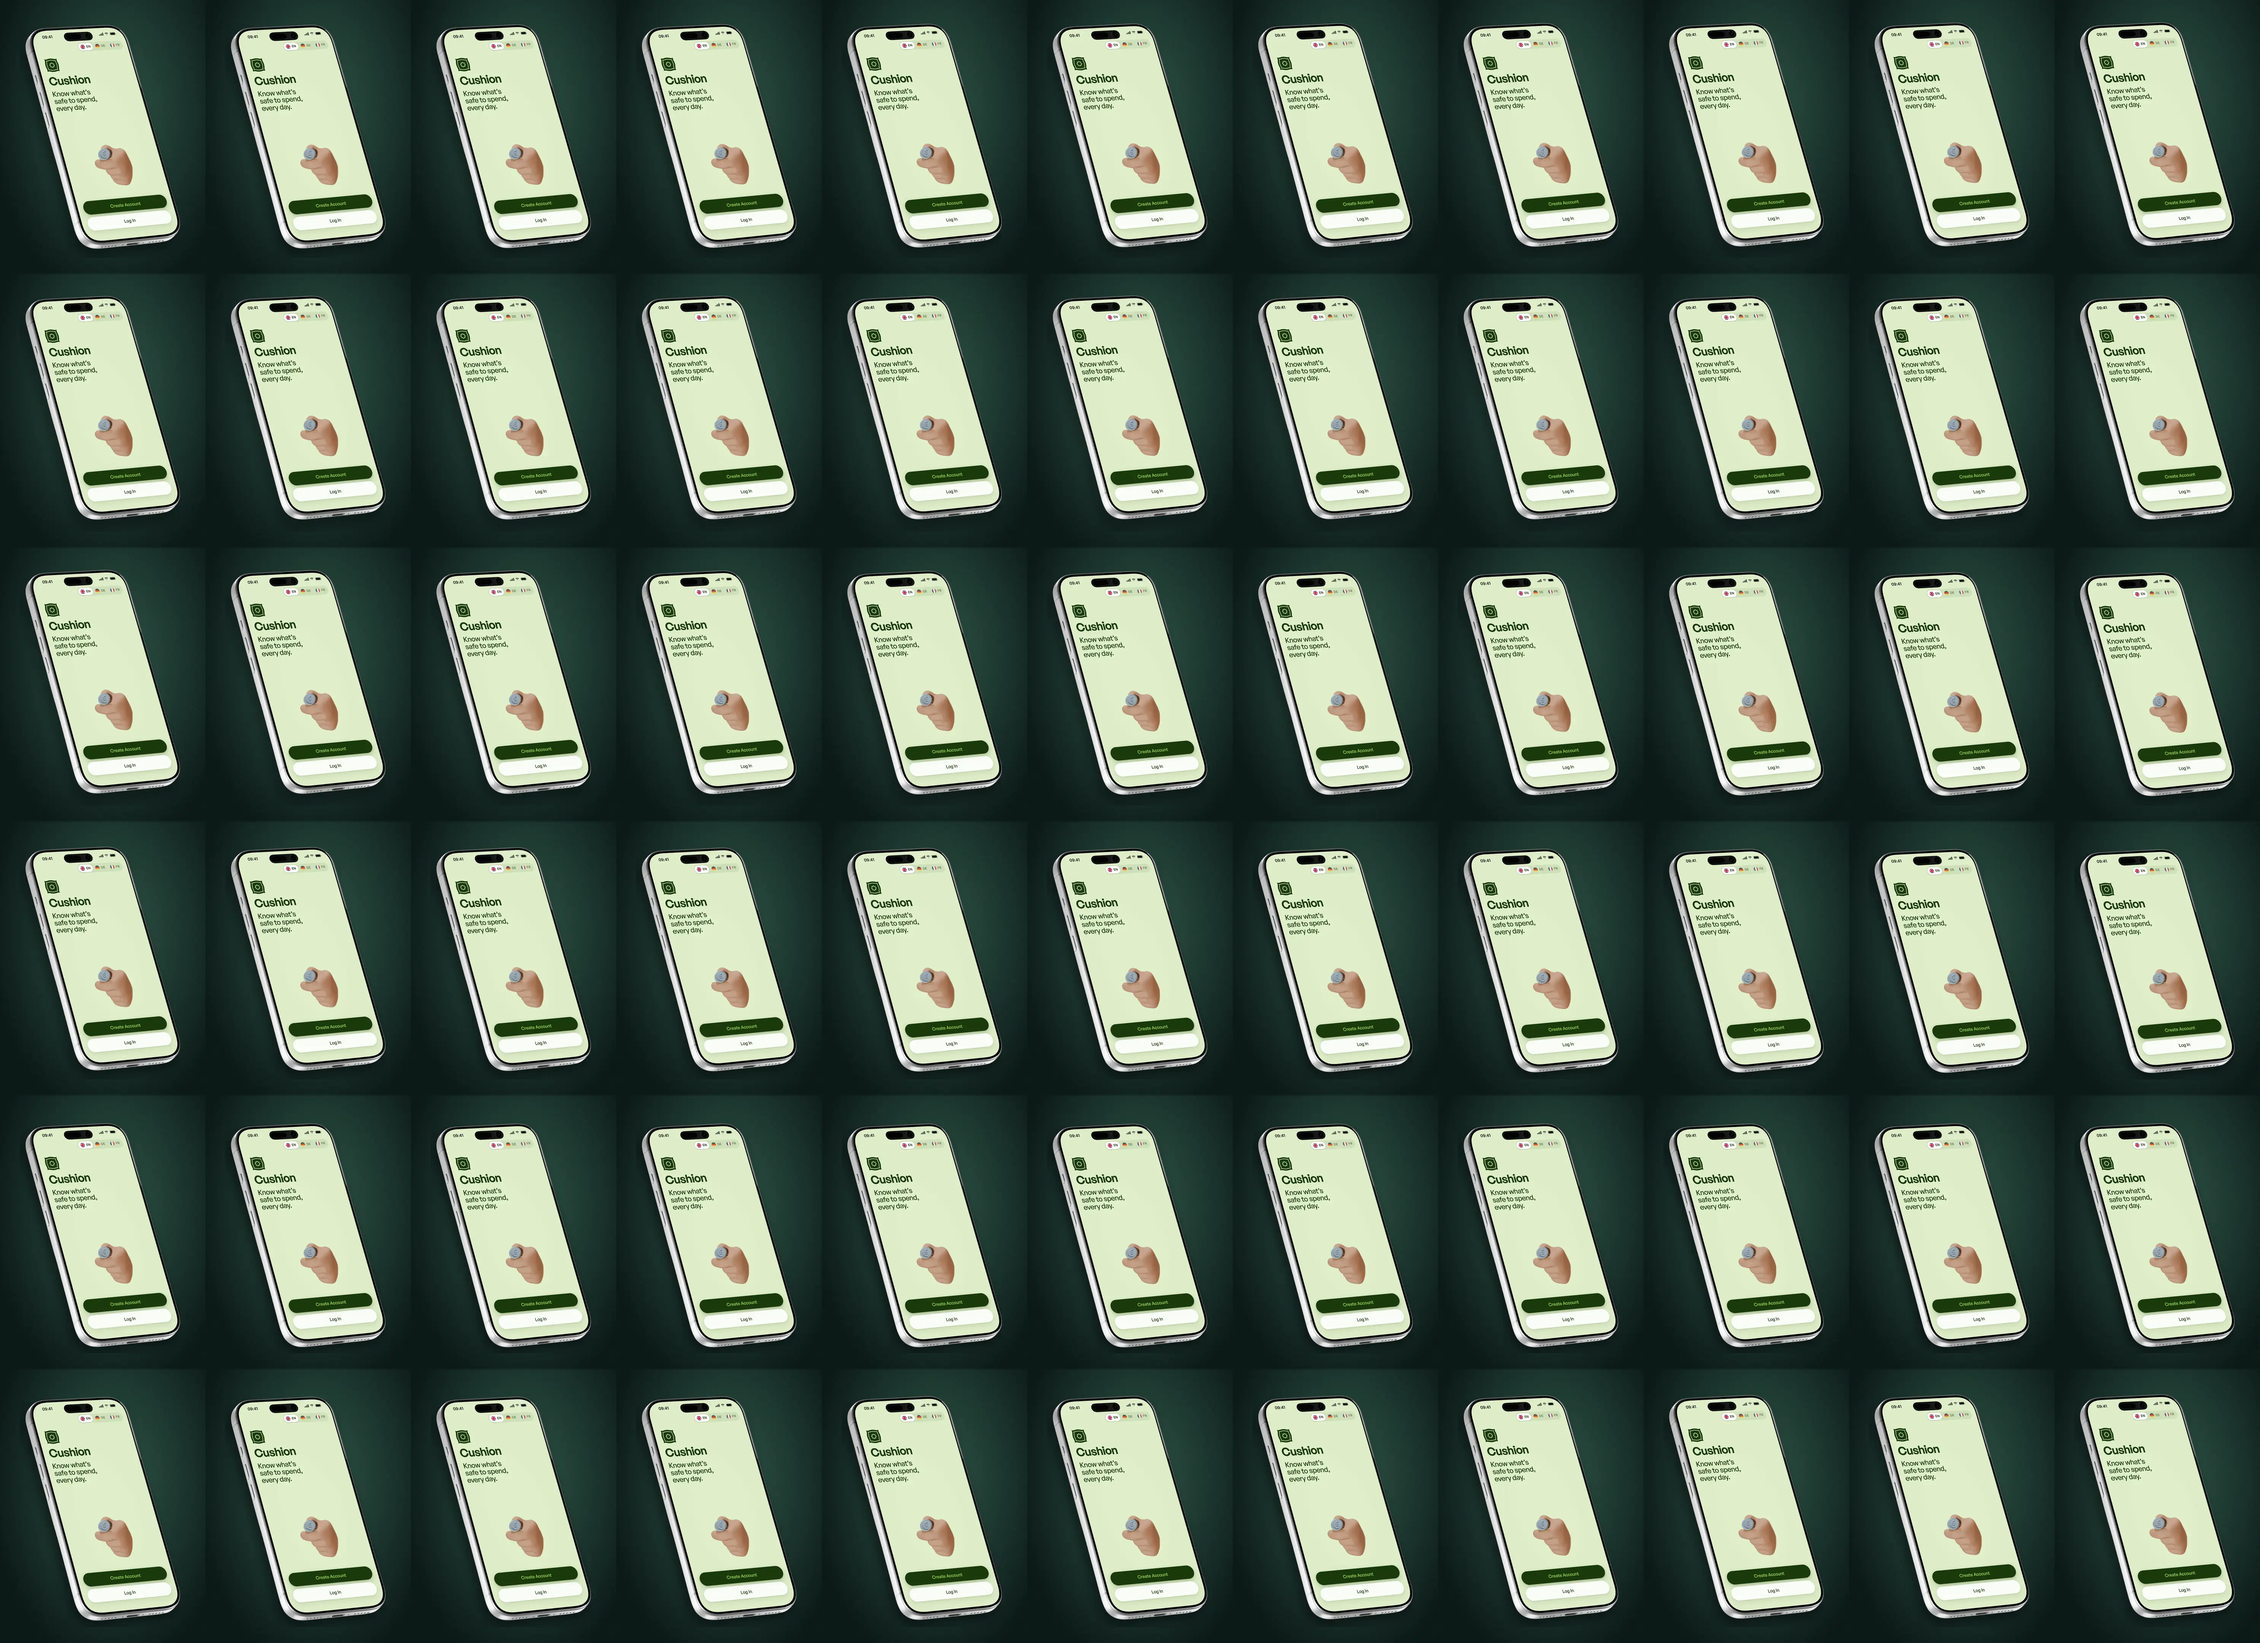
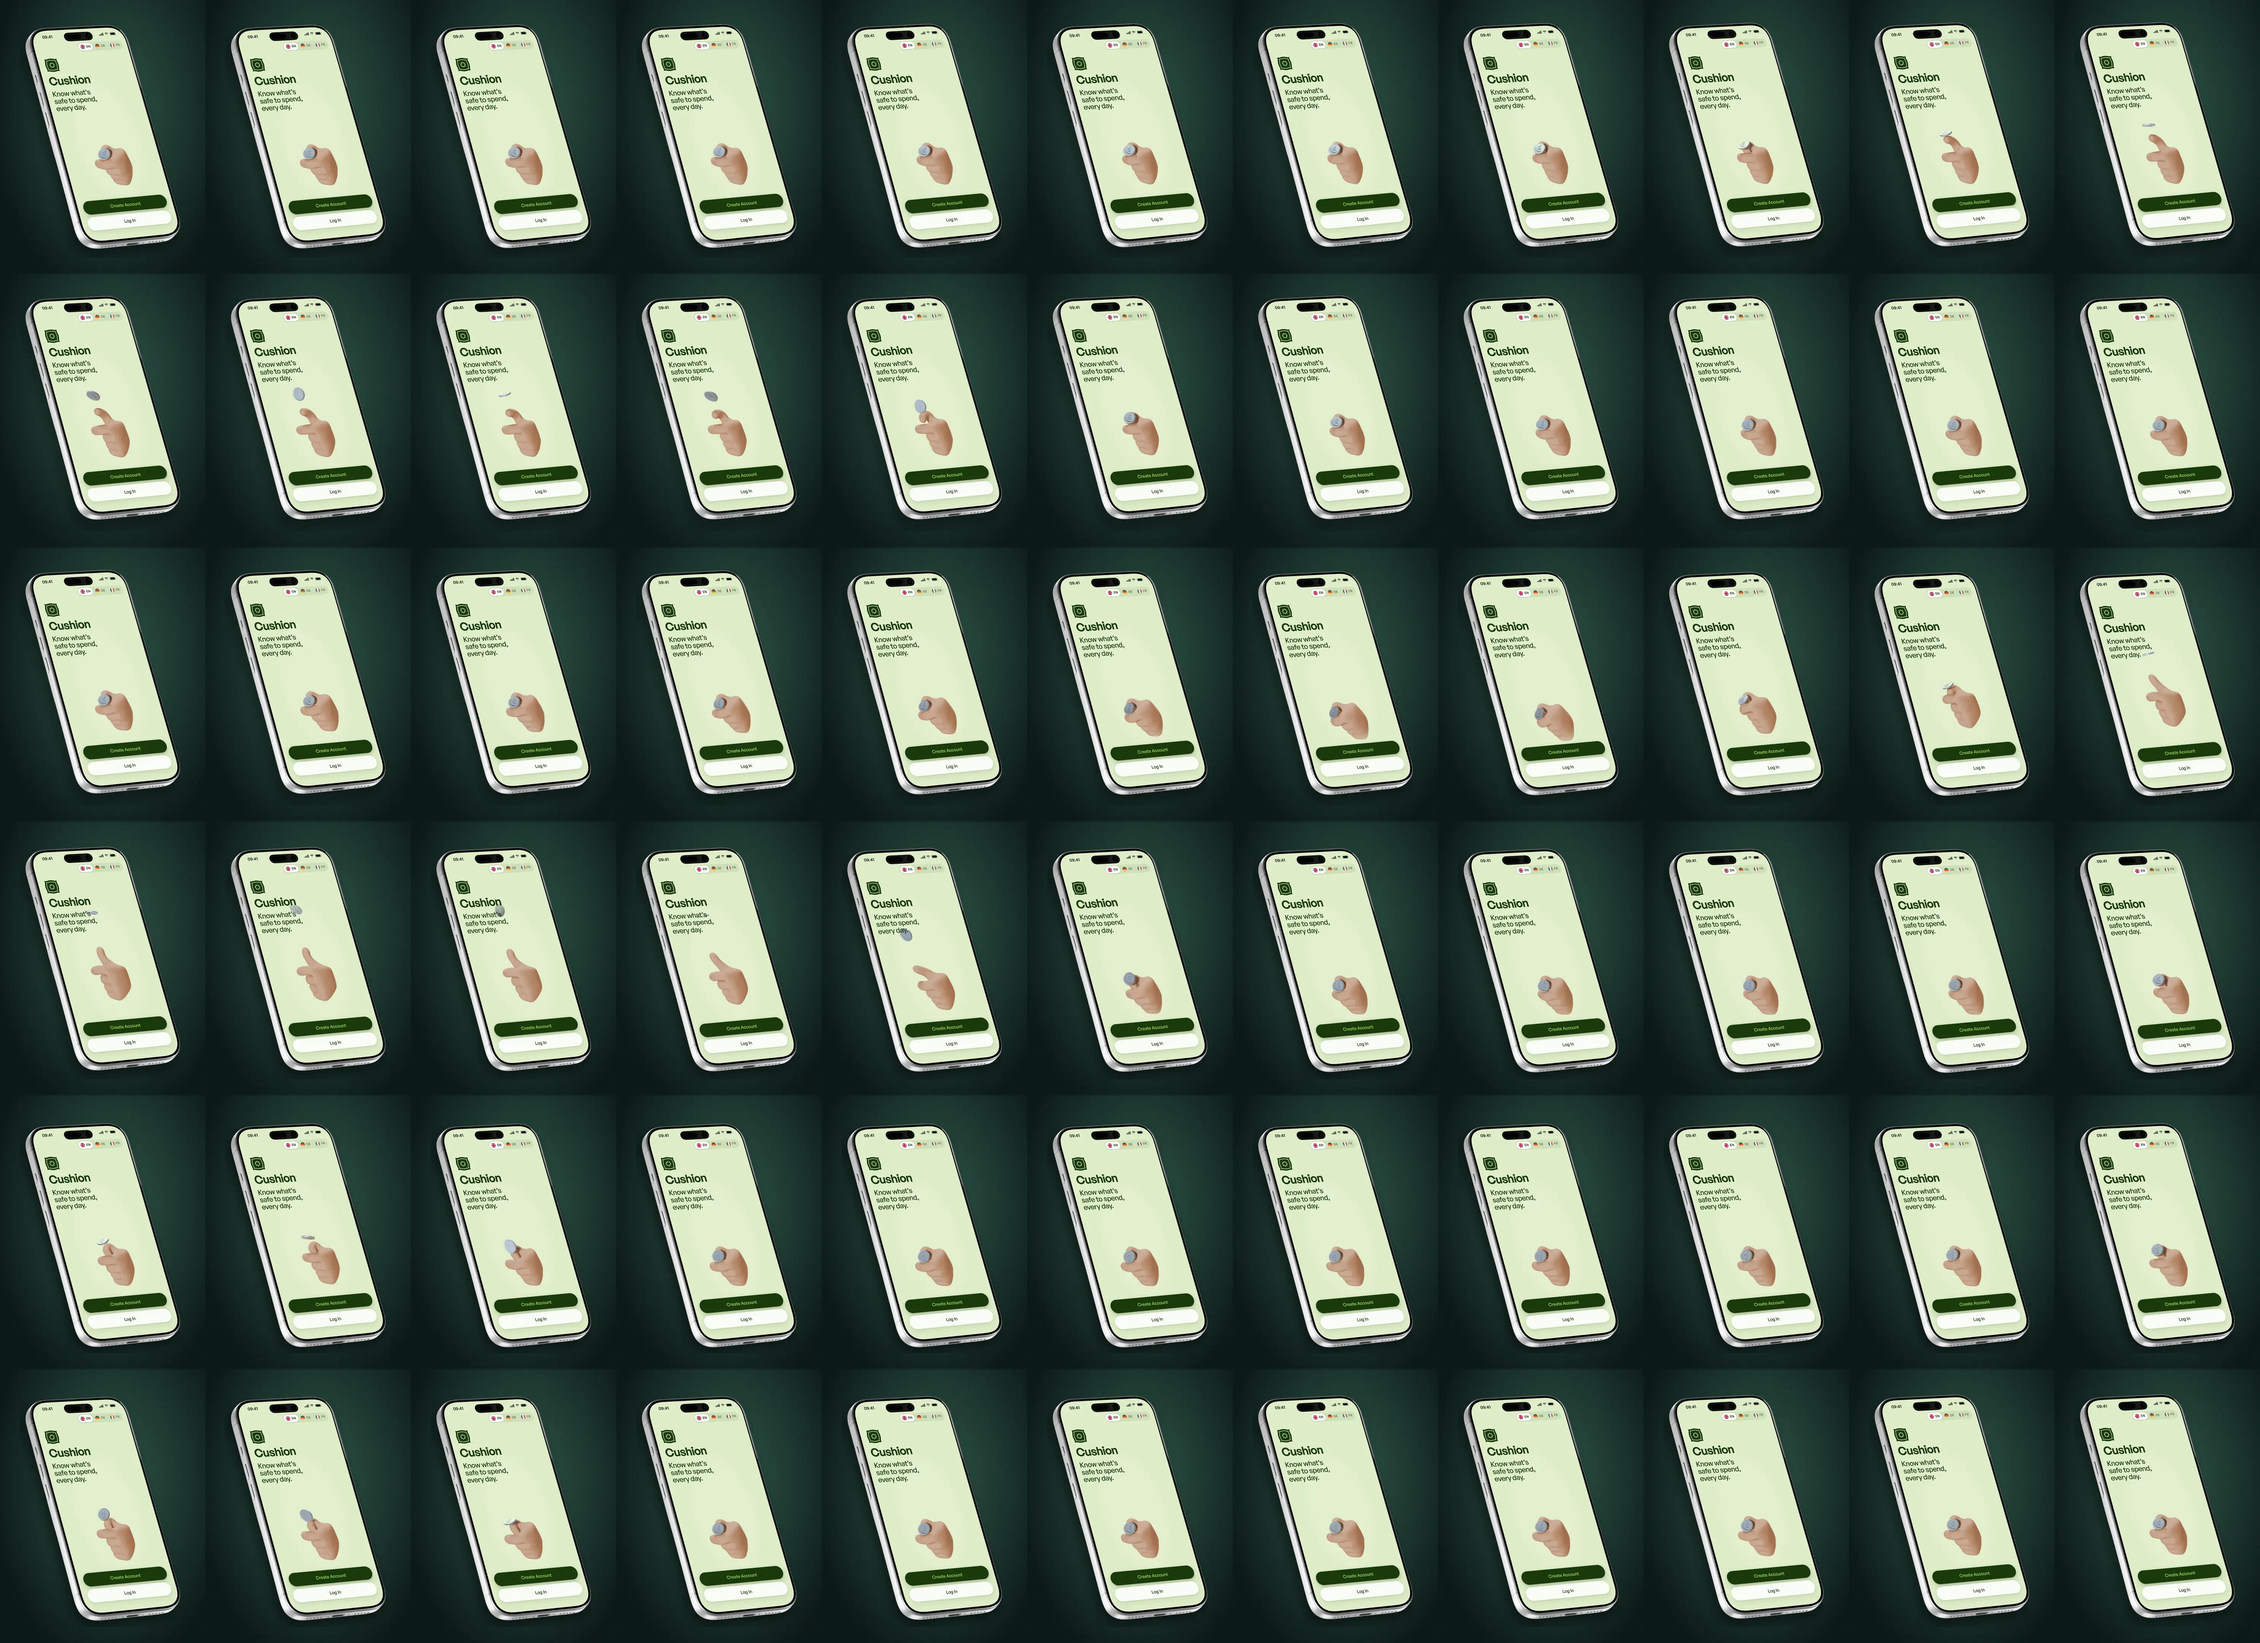
Cushion case study: mockup loop with the coin flipping again
The font re-render had captured a frozen coin. Frames are now recorded from the
clip's own frames. The loop is a CSS-stepped frame sheet, so it needs no script.

Claude-Session: https://claude.ai/code/session_01JSvXBzoWrq8YzxT9cABVqA

diff --git a/cushion-case/index.html b/cushion-case/index.html
@@ -299,7 +299,7 @@ p { margin: 0; }
   }
 .thanks .inner { display: grid; grid-template-columns: minmax(0, 1fr) auto; gap: 24px; align-items: center; }
 .thanks .inner > div:first-child { padding-bottom: 0; }
-.coin-flip { width: 220px; height: auto; display: block; align-self: end; mix-blend-mode: lighten; margin-right: 24px; -webkit-mask-image: linear-gradient(to bottom, transparent, #000 22%); mask-image: linear-gradient(to bottom, transparent, #000 22%); }
+.coin-flip { width: 220px; aspect-ratio: 330 / 600; background-image: url(img/coin-sheet.webp); display: block; align-self: end; mix-blend-mode: lighten; margin-right: 24px; -webkit-mask-image: linear-gradient(to bottom, transparent, #000 22%); mask-image: linear-gradient(to bottom, transparent, #000 22%); }
 @media (max-width: 760px) { .coin-flip { width: 140px; margin-right: 0; } .thanks .inner > div:first-child { padding-bottom: 24px; } }
 .app-icon { width: 120px; height: 120px; border-radius: 28px; background: var(--forest); display: grid; place-items: center; box-shadow: 0 20px 50px rgba(0, 0, 0, .4); }
 .app-icon .mark { width: 70px; height: 70px; color: var(--lime); }
@@ -400,7 +400,12 @@ p { margin: 0; }
 .ic.forest { background: var(--forest); color: var(--lime); }
 .intro-card .meta { margin-top: 0; }
 .intro-shot { position: relative; border-radius: 28px; overflow: hidden; min-height: 560px; background: #0C1A18; isolation: isolate; }
-.mock-video { position: absolute; inset: 0; width: 100%; height: 100% !important; object-fit: cover; object-position: 50% 30%; }
+/* Frame sheets stepped by CSS alone (11 columns x 6 rows, 80ms a frame): no video, animated image or script needed */
+.mock-video, .coin-flip { background-size: 1100% 600%; background-repeat: no-repeat; animation: sheet-x .88s steps(11) infinite, sheet-y 5.28s steps(6) infinite; }
+@keyframes sheet-x { from { background-position-x: 0%; } to { background-position-x: 110%; } }
+@keyframes sheet-y { from { background-position-y: 0%; } to { background-position-y: 120%; } }
+@media (prefers-reduced-motion: reduce) { .mock-video, .coin-flip { animation: none; background-position: 0 0; } }
+.mock-video { position: absolute; inset: 0; background-image: url(img/mockup-sheet.webp); }
 .mock-ph { position: absolute; left: 50%; top: 45%; transform: translate(-50%, -50%); width: 40%; aspect-ratio: 9 / 19; border-radius: 36px; border: 1.5px dashed rgba(255, 255, 255, .35); display: grid; place-content: center; justify-items: center; gap: 6px; color: #C7D6D0; font-size: 12px; text-align: center; }
 .mock-ph b { font-weight: 500; font-size: 14px; color: #fff; }
 .intro-cap { position: absolute; left: 0; right: 0; bottom: 0; padding: 60px 28px 26px; color: #fff; background: linear-gradient(0deg, rgba(12, 26, 24, .85), transparent); display: grid; gap: 6px; }
@@ -448,7 +453,7 @@ p { margin: 0; }
         <p class="intro-quote"><span class="qm" aria-hidden="true">“</span>Most budgeting apps show where money <span class="ic emoji" aria-hidden="true"><i>💸</i></span> went. <span class="ic forest" aria-hidden="true"><svg viewBox="0 0 512 512"><use href="#cush"/></svg></span> Cushion tells you what is safe to spend today and an AI advisor <span class="ic forest" aria-hidden="true"><svg viewBox="0 0 24 24"><use href="#spark"/></svg></span> helps with every money decision.</p>
       </div>
       <div class="intro-shot">
-        <img class="mock-video" data-sheet="img/mockup-sheet.webp" data-frame="540x720x11x66x80" src="img/mockup-anim.webp" alt="Cushion welcome screen on an iPhone">
+        <div class="mock-video" role="img" aria-label="Cushion welcome screen on an iPhone"></div>
         <a class="proto-btn" href="https://claude.ai/artifact/UCyDsxiMhATAbDJt7HwtUa" target="_blank" rel="noopener">Open interactive prototype<svg width="16" height="16" viewBox="0 0 24 24" fill="none" stroke="currentColor" stroke-width="2" stroke-linecap="round" stroke-linejoin="round" aria-hidden="true"><path d="M7 17 17 7M8 7h9v9"/></svg></a>
       </div>
     </div>
@@ -752,7 +757,7 @@ p { margin: 0; }
         <span class="brand"><svg class="mark" aria-hidden="true"><use href="#cush"/></svg>Cushion</span>
         <h2>Thanks for reading.</h2>
       </div>
-      <img class="coin-flip" data-sheet="img/coin-sheet.webp" data-frame="330x600x11x66x80" src="img/coin-anim.webp" alt="">
+      <div class="coin-flip" aria-hidden="true"></div>
     </div>
   </div>
 </section>
@@ -787,20 +792,4 @@ p { margin: 0; }
   .hero::after { background: linear-gradient(0deg, rgba(12, 26, 24, .95) 10%, rgba(12, 26, 24, .45) 55%, rgba(12, 26, 24, .55) 100%); }
 }
 </style>
-<script>
-/* The loops step through a sheet of frames on a canvas: the Claude desktop preview freezes video and animated images */
-document.querySelectorAll('img[data-sheet]').forEach(img => {
-  const [w, h, cols, n, ms] = img.dataset.frame.split('x').map(Number);
-  const sheet = new Image();
-  sheet.onload = () => {
-    const c = document.createElement('canvas'); c.width = w; c.height = h; c.className = img.className;
-    if (img.alt) { c.setAttribute('role', 'img'); c.setAttribute('aria-label', img.alt); } else c.setAttribute('aria-hidden', 'true');
-    const ctx = c.getContext('2d'); let i = 0;
-    const draw = () => ctx.drawImage(sheet, (i % cols) * w, Math.floor(i / cols) * h, w, h, 0, 0, w, h);
-    draw(); img.replaceWith(c);
-    if (matchMedia('(prefers-reduced-motion: reduce)').matches) return;
-    setInterval(() => { i = (i + 1) % n; draw(); }, ms);
-  };
-  sheet.src = img.dataset.sheet;
-});
-</script>
+
